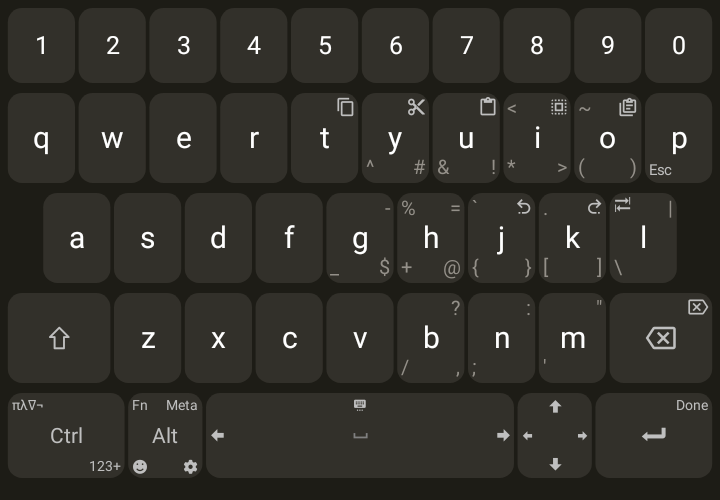
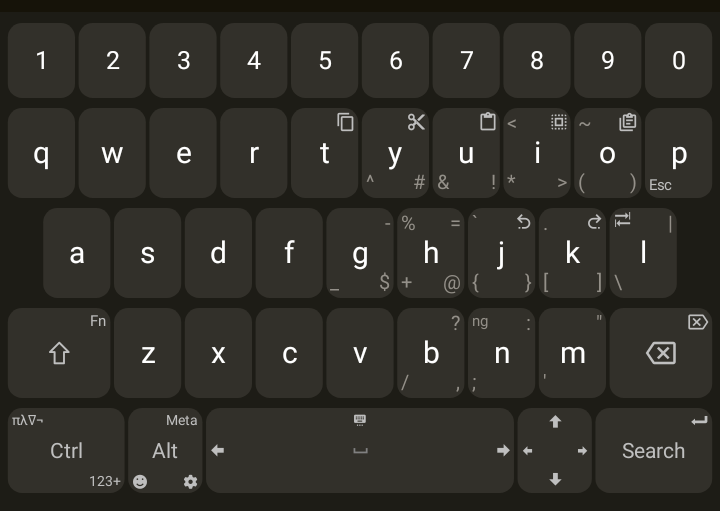
Added pinyin diacritics and updated xml specification

diff --git a/README.md b/README.md
@@ -1,4 +1,12 @@
 # Preview
-| Qwerty | Arabic |
+## Normal
+|![qwerty layout preview](./images/qwerty.png)|![arabic layout preview](./images/arabic.png)|
 |--------|--------|
-|![qwerty layout preview](images/qwerty.png)|![arabic layout preview](images/arabic.png)|
+| Qwerty | Arabic |
+
+## Fn Modifier
+| ![qwerty pinyin](./images/qwerty_pinyin.png) |
+| ----- |
+| Qwerty Pinyin |
+
+
